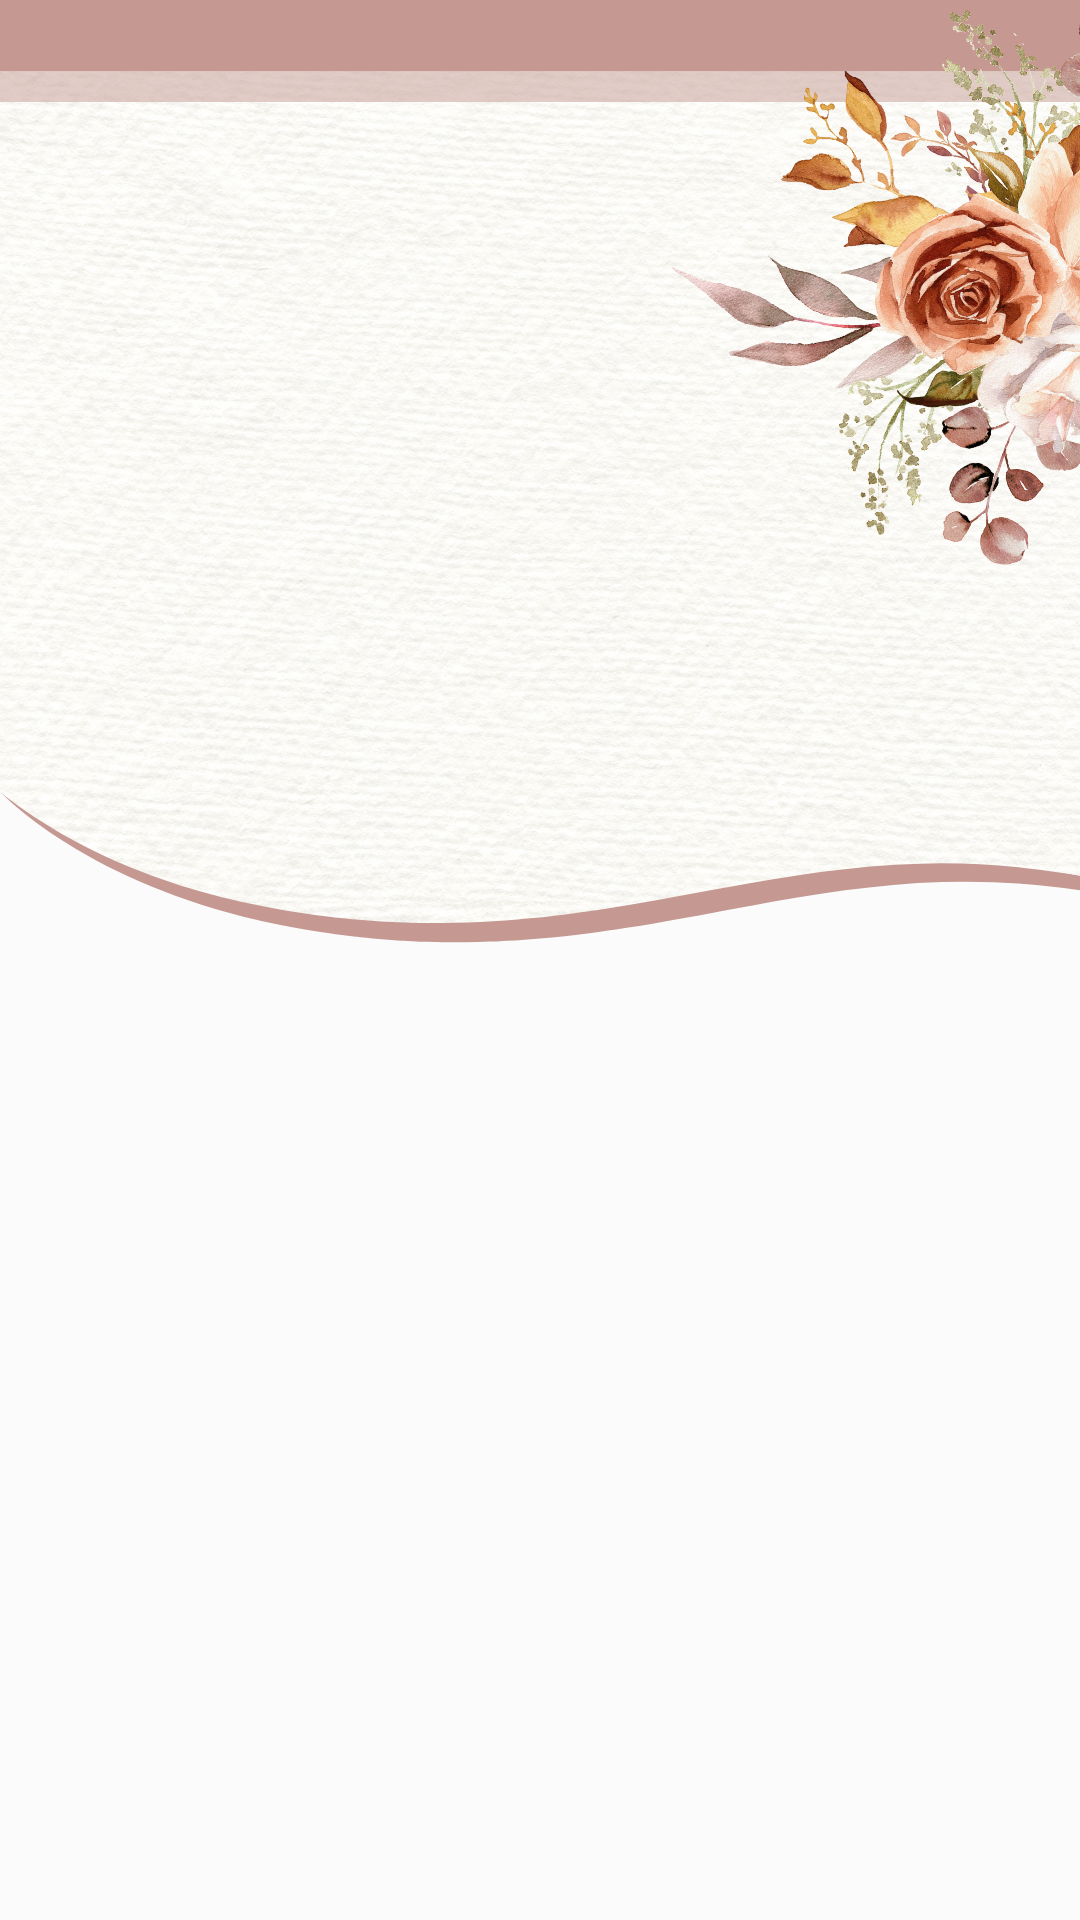
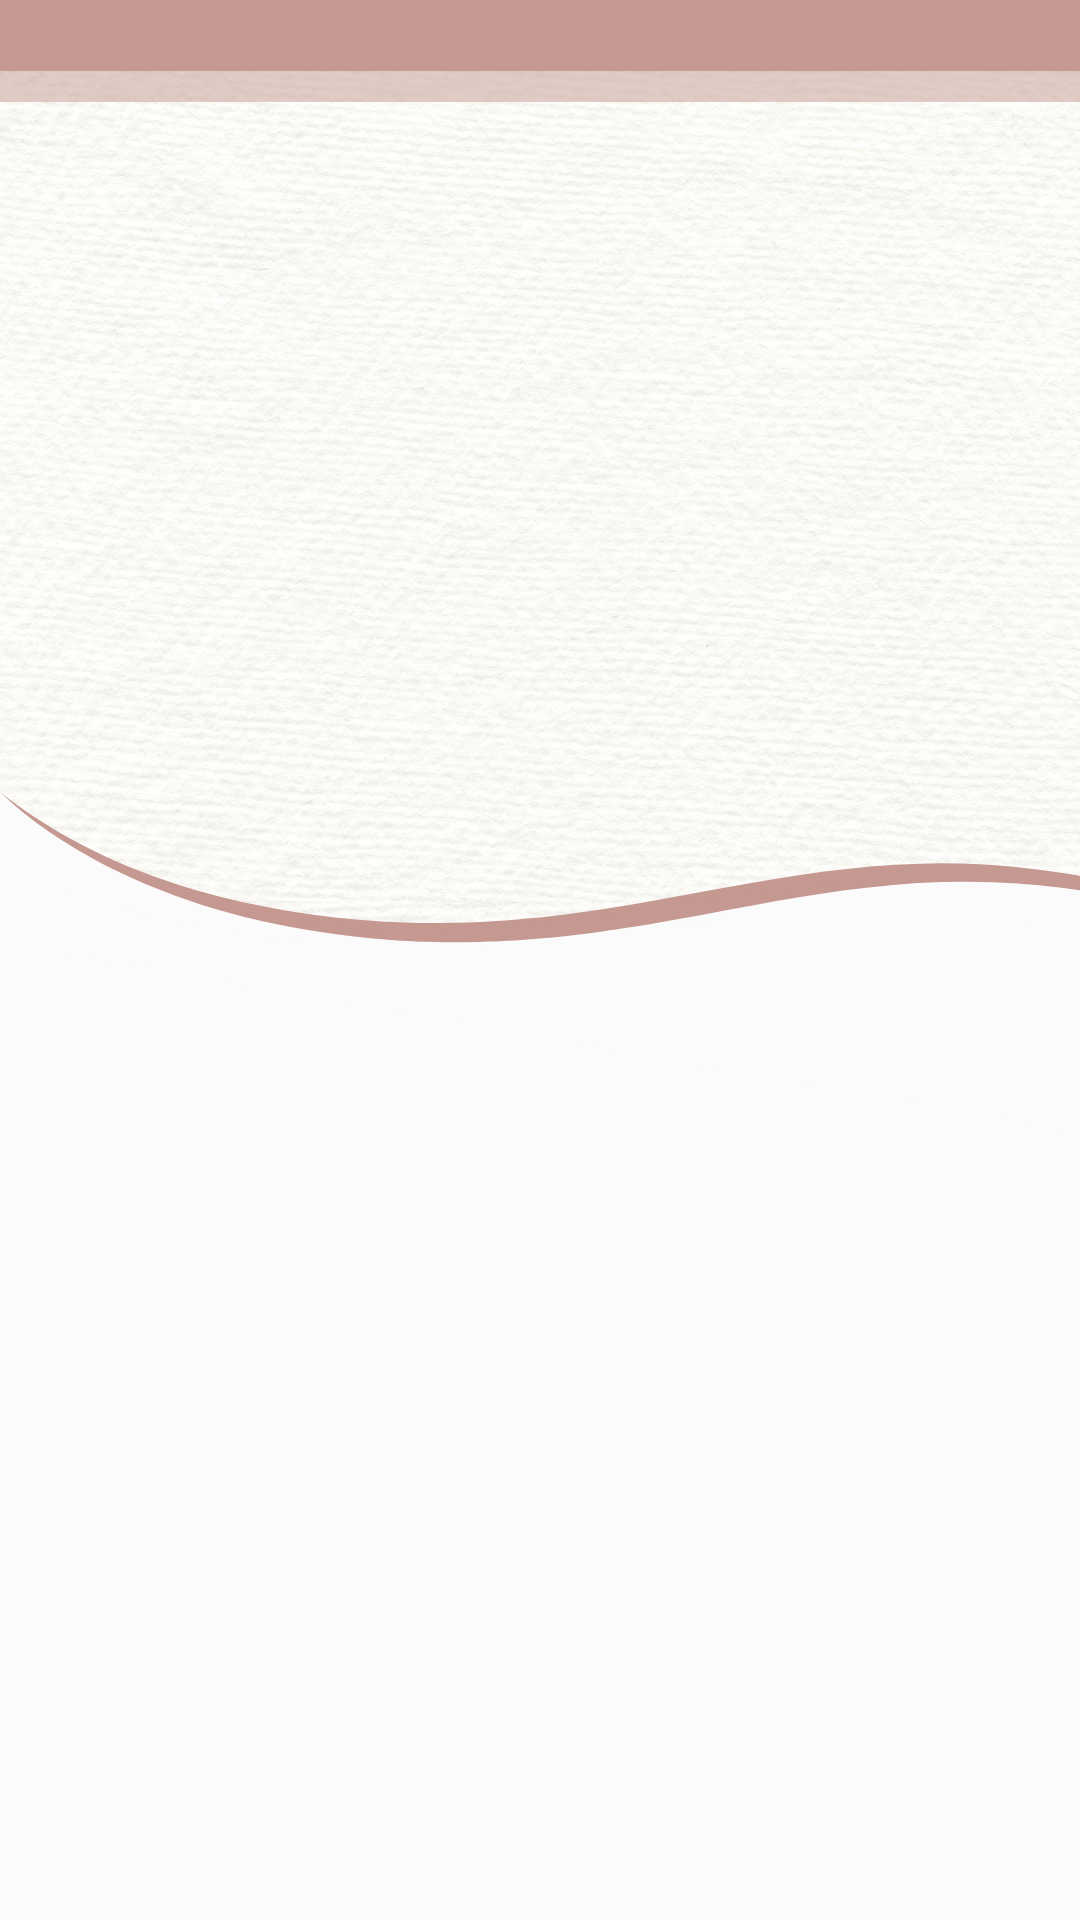
ultimas correcciones

Changed region(s): [[0.6417, 0.0, 1.0, 0.3125]]

diff --git a/styles.css b/styles.css
@@ -1171,7 +1171,7 @@ body.loading {
 }
 
 .musica-subtitle {
-  color: #a6a9b0;
+  color: #b0aaa6;
   font-size: 1.3rem;
   text-align: center;
   margin-bottom: 32px;
@@ -1192,25 +1192,25 @@ body.loading {
 }
 .musica-icon ion-icon {
   font-size: 3rem;
-  color: #5f705b;
+  color: var(--terracotta);
   margin-bottom: 10px;
 }
 .musica-pregunta {
   font-family: 'Playfair Display', serif;
-  color: #5f705b;
+  color: var(--terracotta);
   font-size: 1.5rem;
   font-weight: 600;
   margin-bottom: 8px;
   text-align: center;
 }
 .musica-ayuda {
-  color: #a6a9b0;
+  color: #b0aaa6;
   font-size: 1.1rem;
   margin-bottom: 28px;
   text-align: center;
 }
 .musica-btn {
-  background: #5f705b;
+  background: var(--dusty-rose);
   color: #fff;
   border: none;
   border-radius: 10px;
@@ -1225,7 +1225,7 @@ body.loading {
   margin-top: 10px;
 }
 .musica-btn:hover {
-  background: #799270;
+  background: var(--terracotta);
 }
 
 /* Modal sugerencia */
@@ -1277,17 +1277,17 @@ body.loading {
   transform: translateX(-50%);
   z-index: 3;
 }
-.modal-icon ion-icon {
+.modal-icon-cancion ion-icon {
   font-size: 3.2rem;
-  color: #8fa18b;
-  margin-bottom: 18px;
-  margin-top: 40px;
+  color: var(--terracotta);
+  margin-bottom: 4px;
+  margin-top: 4px;
 }
 .modal-close {
   position: absolute;
   top: 18px;
   right: 18px;
-  background: #7a8b7a;
+  background: var(--terracotta);
   border: none;
   border-radius: 50%;
   max-width: 32px;
@@ -1305,13 +1305,13 @@ body.loading {
   color: #ffffff;
 }
 
-.modal-title {
+.modal-title-cancion {
   font-family: 'Playfair Display', serif;
-  color: #23422c;
-  font-size: 0.5rem;
+  color: var(--terracotta);
+  font-size: 1.5rem;
   font-weight: 700;
   margin-bottom: 20px;
-  margin-top: 12px;
+  margin-top: 4px;
   text-align: center;
 }
 
@@ -1329,14 +1329,14 @@ body.loading {
   font-size: 1rem;
   outline: none;
   background: transparent;
-  color: #23422c;
+  color: var(--terracotta);
   font-family: 'Playfair Display', serif;
 }
 .modal-form input:focus {
-  border-bottom: 1.5px solid #8fa18b;
+  border-bottom: 1.5px solid var(--dusty-rose);
 }
 .modal-submit {
-  background: #7a8b7a;
+  background: var(--dusty-rose);
   color: #fff;
   border: none;
   border-radius: 18px;
@@ -1349,7 +1349,7 @@ body.loading {
   transition: background 0.2s;
 }
 .modal-submit:hover {
-  background: #aab7aa;
+  background: var(--dusty-rose);
 }
 
 /*=================
@@ -1364,7 +1364,7 @@ Dress Code
   background: #fafbfa;
 }
 .dresscode-card {
-  background: #eef3ee;
+  background: #d6ae9657;
   border-radius: 20px;
   padding: 40px 32px 32px 32px;
   max-width: 200px;
@@ -1376,25 +1376,25 @@ Dress Code
 }
 .dresscode-icon ion-icon {
   font-size: 3rem;
-  color: #8fa18b;
+  color: var(--caramel-brown);
   margin-bottom: 10px;
 }
 .dresscode-title {
   font-family: 'Dancing Script', cursive;
-  color: #7a8b7a;
+  color: var(--caramel-brown);
   font-size: 2rem;
   margin-bottom: 10px;
 }
 .dresscode-desc {
-  color: #a6a9b0;
+  color: var(--terracotta);
   font-size: 1.15rem;
   margin-bottom: 28px;
   text-align: center;
 }
 .dresscode-btn {
   background: #fff;
-  color: #7a8b7a;
-  border: 1.5px solid #7a8b7a;
+  color: var(--caramel-brown);
+  border: 1.5px solid var(--caramel-brown);
   border-radius: 10px;
   padding: 12px 0;
   width: 90%;
@@ -1405,8 +1405,8 @@ Dress Code
   transition: background 0.2s, color 0.2s;
 }
 .dresscode-btn:hover {
-  background: #e8ede8;
-  color: #5c6d5c;
+  background: #f3e9e3;
+  color: var(--caramel-brown);
 }
 
 /* Modal Dress Code */
@@ -1458,11 +1458,11 @@ Dress Code
   margin-bottom: 10px;
   margin-top: 10px;
 }
-.modal-close {
+.modal-close-dresscode {
   position: absolute;
   top: 18px;
   right: 18px;
-  background: #8a925e;
+  background: var(--terracotta);
   border: none;
   border-radius: 50%;
   max-width: 32px;
@@ -1480,29 +1480,29 @@ Dress Code
 }
 .modal-title {
   font-family: 'Playfair Display', serif;
-  color: #23422c;
-  font-size: 1.5rem;
+  color: var(--caramel-brown);
+  font-size: 1.1rem;
   font-weight: 700;
   margin-bottom: 1px;
-  margin-top: -35px;
+  margin-top: -12px;
   text-align: center;
 }
 .modal-subtitle {
-  color: #7a8b7a;
-  font-size: 1rem;
+  color: var(--dusty-rose);
+  font-size: 0.9rem;
   font-weight: bold;
-  margin-bottom: 1px;
+  margin-bottom: 5px;
   text-align: center;
 }
 .modal-outfit-ideas {
   color: #a6a9b0;
-  font-size: 1rem;
+  font-size: 0.9rem;
   margin-bottom: 1px;
   text-align: center;
 }
 .modal-outfit-img {
   width: 100%;
-  max-width: 210px;
+  max-width: 220px;
   height: auto;
   margin-top: -10px;
   display: block;
@@ -1524,7 +1524,7 @@ Tips & Notas
   background: #fafbfa; /* Fondo suave */
 }
 .tips-card {
-  background: #f5e2e2; /* Fondo tarjeta */
+  background: #d6ae9657; /* Fondo tarjeta */
   border-radius: 20px;
   padding: 32px 22px 22px 22px;
   max-width: 400px;
@@ -1642,7 +1642,7 @@ Tips & Notas
 }
 .modal-icon ion-icon {
   font-size: 2.2rem;
-  color: var(--sage-green);
+  color: var(--terracotta);
   margin-bottom: 10px;
   margin-top: 10px;
 }
@@ -1650,7 +1650,7 @@ Tips & Notas
   position: absolute;
   top: 18px;
   right: 18px;
-  background: var(--sage-green);
+  background: var(--terracotta);
   border: none;
   border-radius: 50%;
   max-width: 32px;
@@ -1741,7 +1741,7 @@ Tips & Notas
 
 .fotos-heading{
   font-family:'Dancing Script', cursive;
-  color:#23422c;             /* verde elegante, acorde a la paleta */
+  color: var(--terracotta);             /* verde elegante, acorde a la paleta */
   text-align:center;
   line-height:1.1;
   font-size:clamp(2.2rem, 6vw, 3.2rem);
@@ -1749,7 +1749,7 @@ Tips & Notas
 }
 
 .fotos-subtitle{
-  color:#a6a9b0;
+  color:#b0aaa6;
   font-family:'Playfair Display', serif;
   font-size:1.15rem;
   text-align:center;
@@ -1757,7 +1757,7 @@ Tips & Notas
 }
 
 .fotos-card{
-  background:#eef3ee;        /* el mismo tono suave usado en otras tarjetas */
+  background:#d6ae9657;        /* el mismo tono suave usado en otras tarjetas */
   border-radius:20px;
   box-shadow:0 8px 32px rgba(0,0,0,.08);
   padding:28px 22px 26px 22px;
@@ -1779,7 +1779,7 @@ Tips & Notas
 }
 
 .fotos-legend{
-  color:#6b7c5e;
+  color: var(--dusty-rose);
   font-size:1.02rem;
   margin:14px 0 18px 0;
   text-align:center;
@@ -1787,7 +1787,7 @@ Tips & Notas
 }
 
 .fotos-btn{
-  background:#7a8b7a;        /* mismo estilo de botones de la web */
+  background:var(--dusty-rose);        /* mismo estilo de botones de la web */
   color:#fff;
   text-decoration:none;
   border:none;
@@ -1800,7 +1800,7 @@ Tips & Notas
   transition:background .2s;
   display:inline-block;
 }
-.fotos-btn:hover{ background:#8fa18b; }
+.fotos-btn:hover{ background: var(--terracotta); }
 
 
 /*=====================

diff --git a/index.html b/index.html
@@ -304,13 +304,13 @@
     <div class="modal-floral-cancion">
       <img src="assets/modalfiesta.svg" alt="Decoración" />      
     </div> 
-    <div class="modal-icon">
+    <div class="modal-icon-cancion">
       <ion-icon name="musical-notes-outline"></ion-icon>
     </div>
     <button class="modal-close" id="cerrar-modal-btn" aria-label="Cerrar">
       <ion-icon name="close-outline"></ion-icon>
     </button>
-    <div class="modal-title">Sugerir Canción</div>
+    <div class="modal-title-cancion">Sugerir Canción</div>
     <form class="modal-form" id="form-sugerencia">
       <input type="text" placeholder="Tu nombre" required>
       <input type="text" placeholder="Nombre de canción y autor" required>
@@ -340,10 +340,10 @@
     <div class="modal-floral-dresscode">
       <img src="assets/modaltips.svg" alt="Decoración" />
     </div>
-    <div class="modal-icon">
+    <div class="modal-icon-dresscode">
       <ion-icon name="bowtie-outline"></ion-icon>
     </div>
-    <button class="modal-close" id="cerrar-modal-dresscode-btn" aria-label="Cerrar">
+    <button class="modal-close-dresscode" id="cerrar-modal-dresscode-btn" aria-label="Cerrar">
       <ion-icon name="close-outline"></ion-icon>
     </button>
     <div class="modal-title">Dress Code</div>
